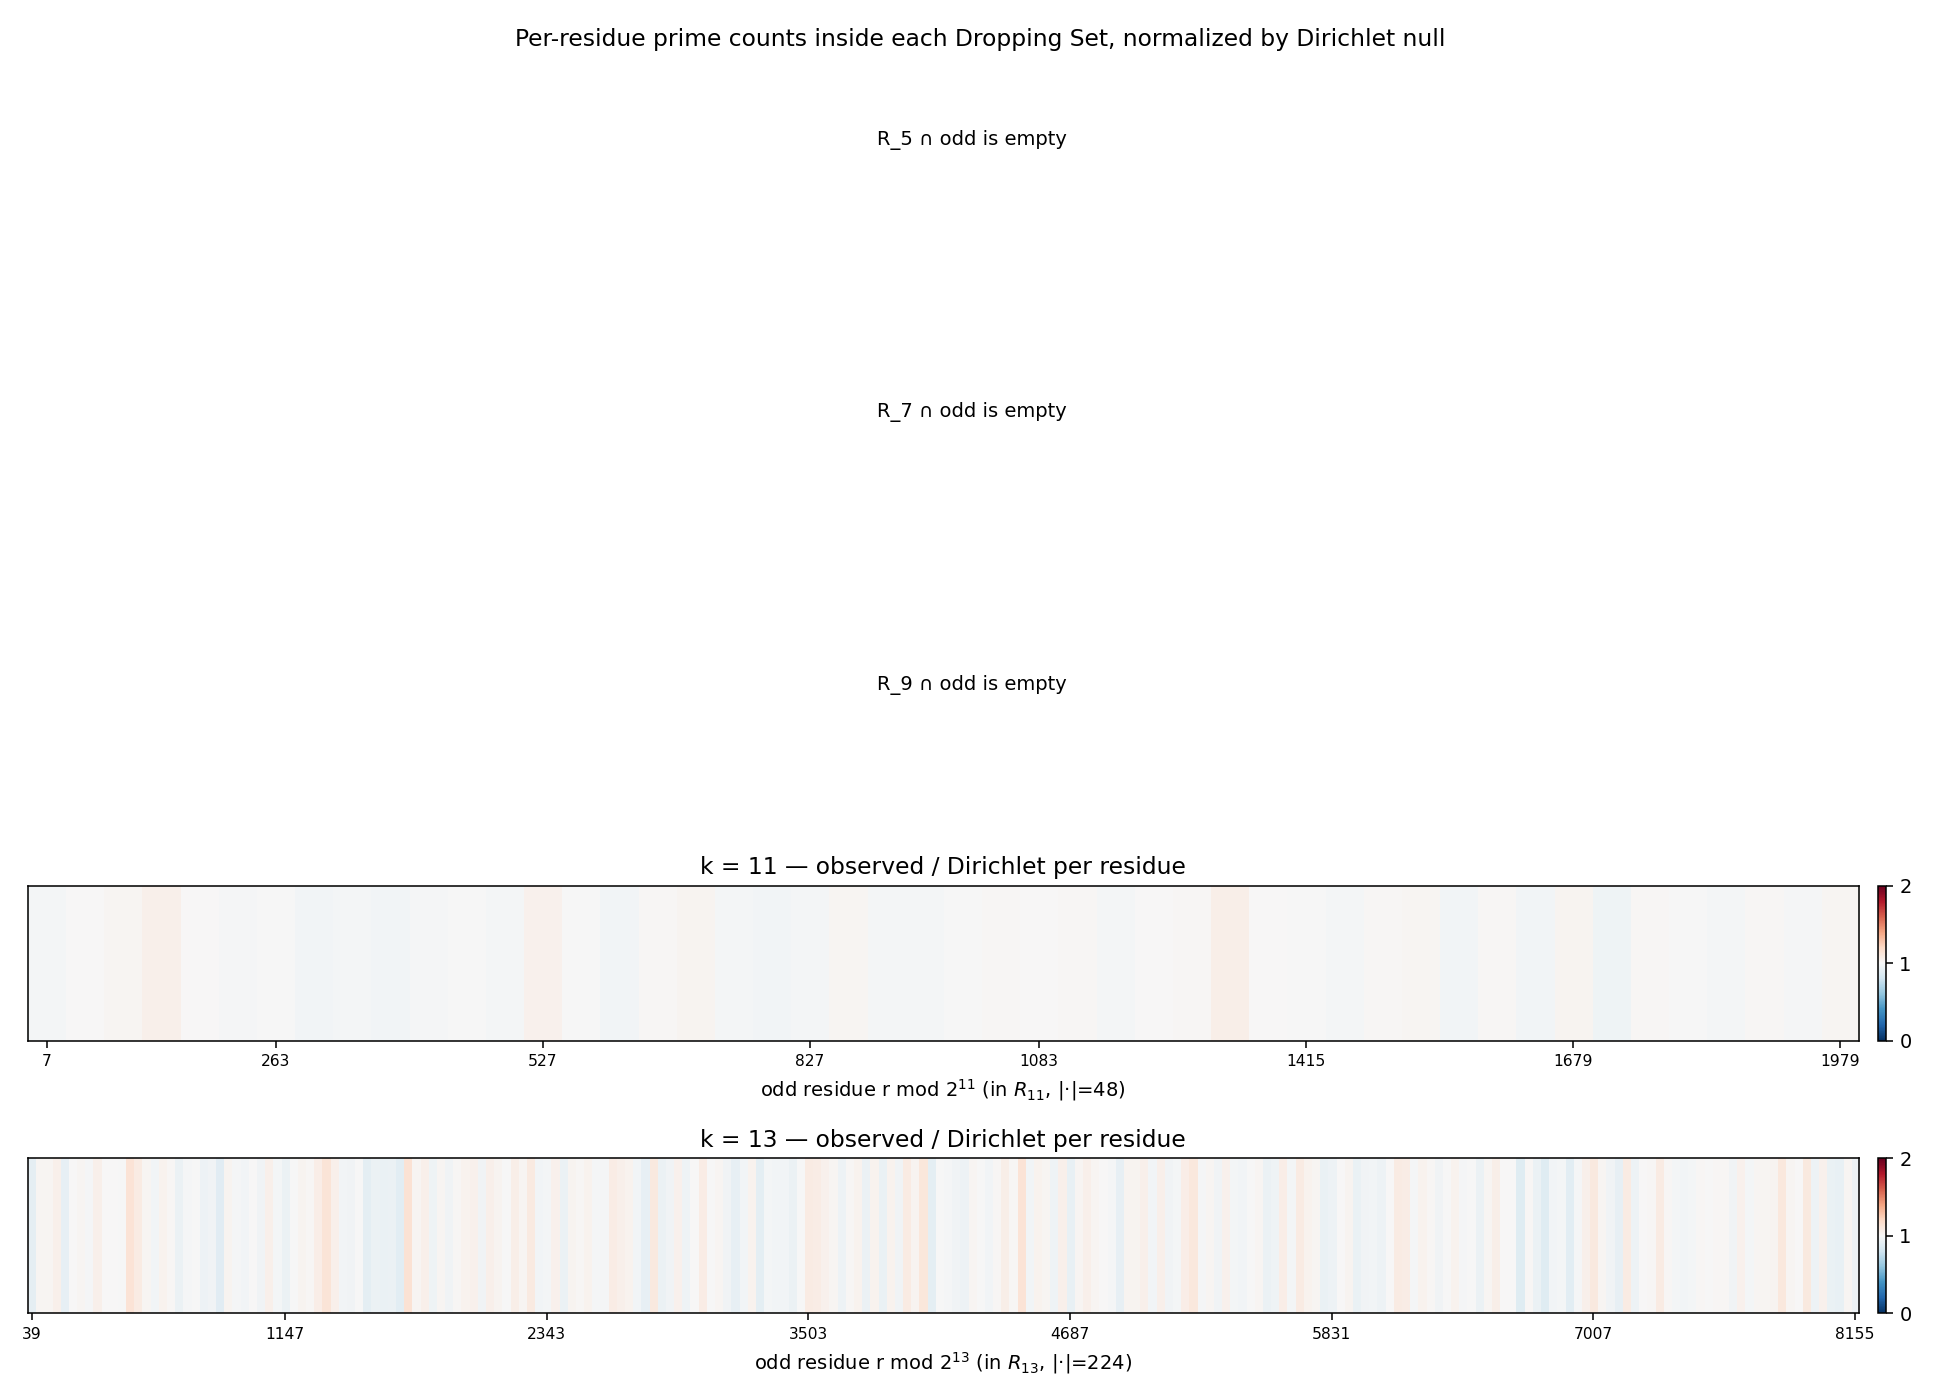
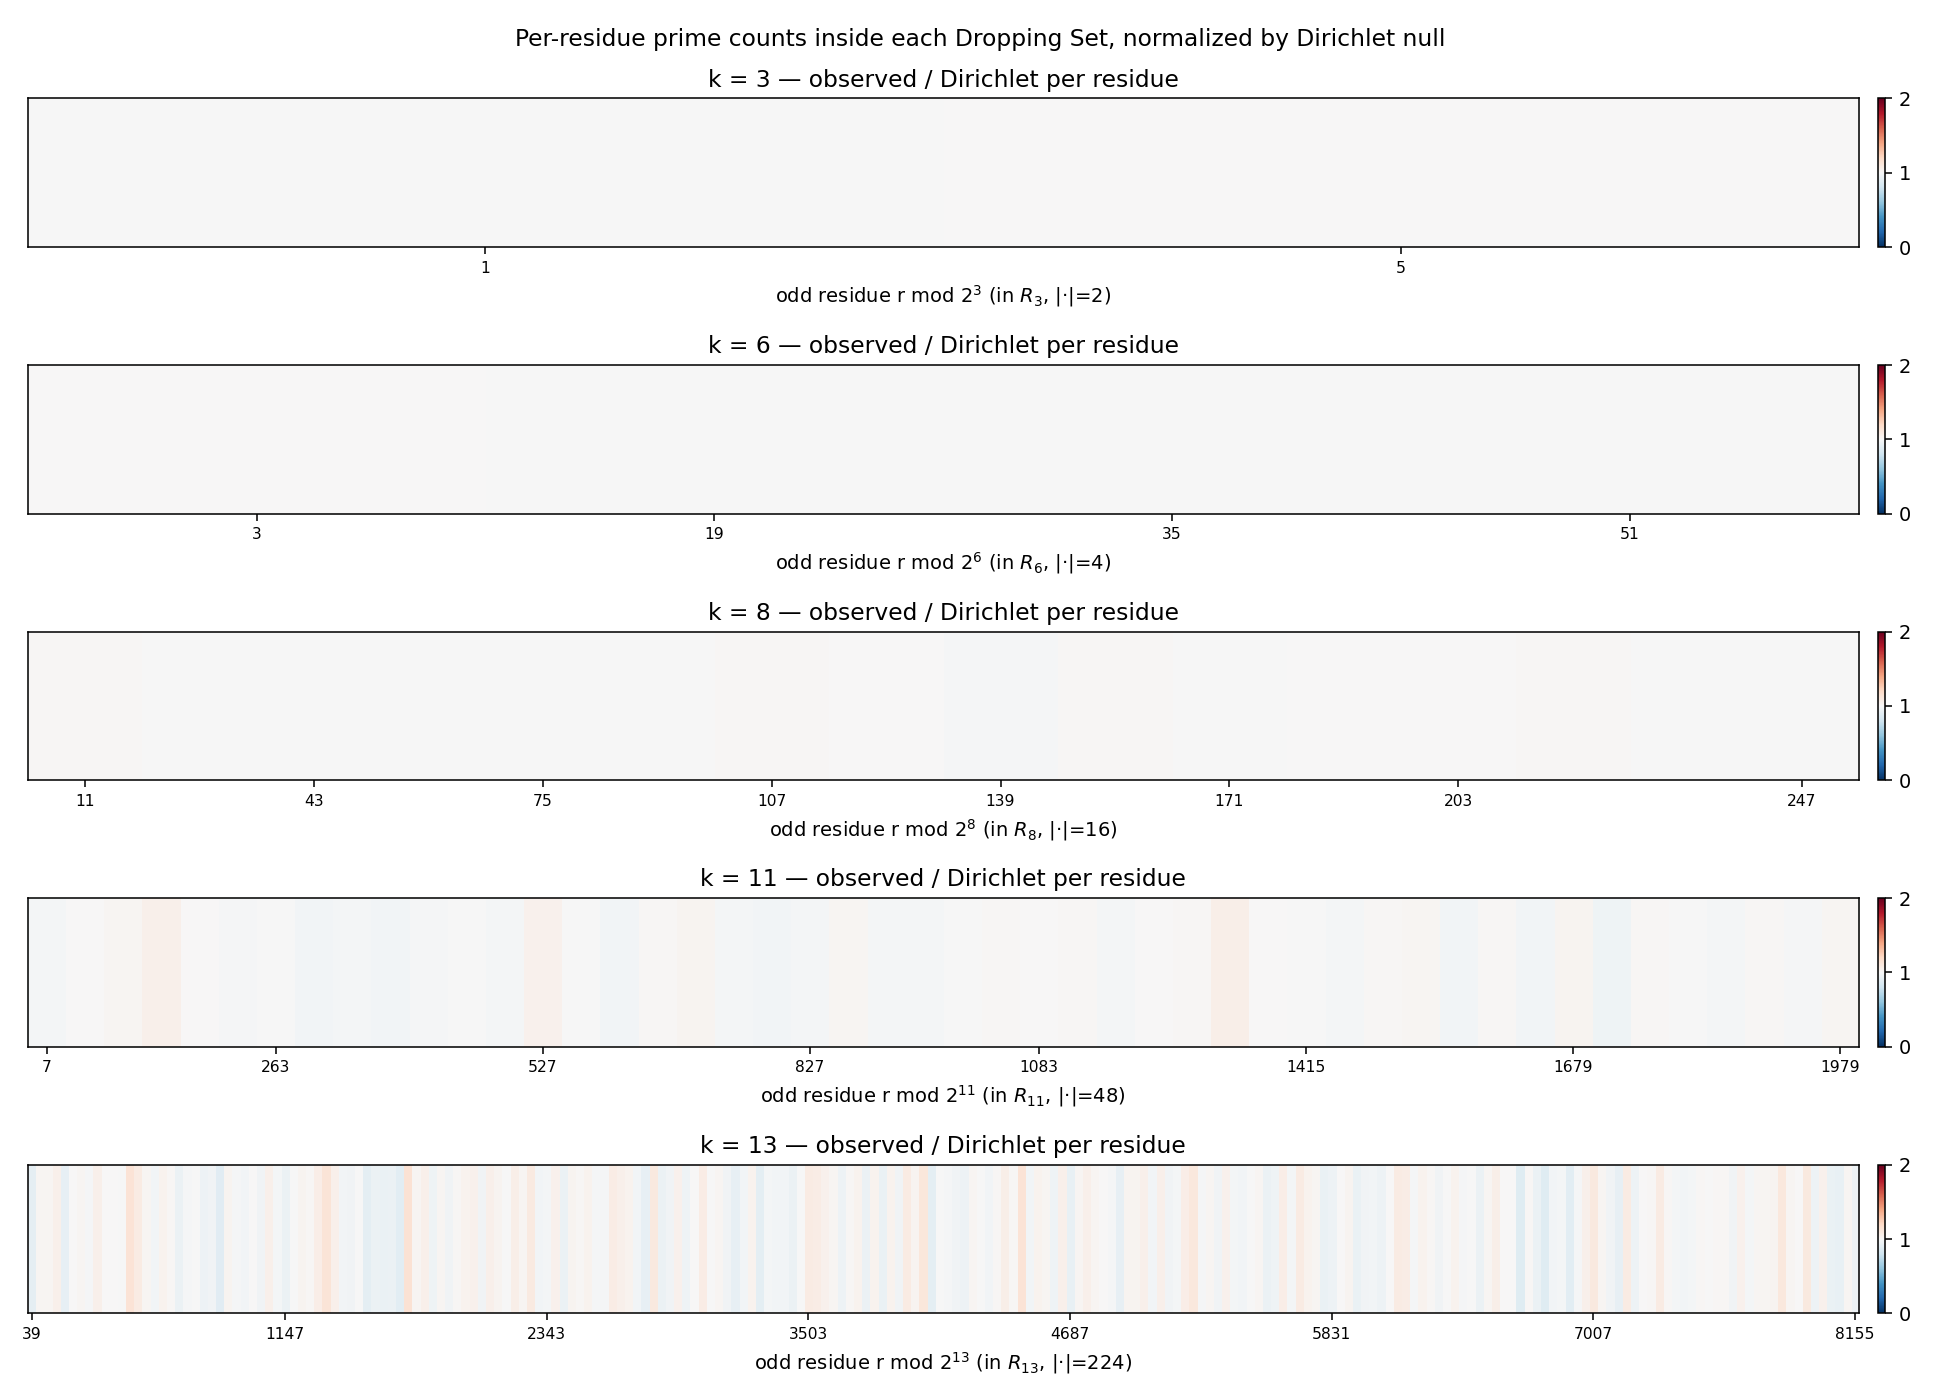
fix(scripts): pick populated dropping sets for heatmap; refresh PNGs at full N=1e7
HEATMAP_KS changed from (5, 7, 9, 11, 13) to (3, 6, 8, 11, 13) — the
actually-populated dropping sets within K_MAX=15.  Previous values 5, 7, 9
have |R_k ∩ odd| = 0 so rendered blank strips.  Heatmap PNG regenerated at
full N = 10_000_000 (π(N) = 664579); file grew from ~27 KB to ~100 KB.

diff --git a/scripts/prime_dropping_residues.py b/scripts/prime_dropping_residues.py
@@ -6,7 +6,7 @@ its residue p mod 2^k.  Compare counts to the Dirichlet null model
 
   1. Arithmetic-form table: which residues r mod 2^k populate D_k.
   2. Observed vs Dirichlet bar chart per D_k, with chi-squared annotation.
-  3. Per-residue heatmap inside D_k for k in {5, 7, 9, 11, 13}.
+  3. Per-residue heatmap inside D_k for k in {3, 6, 8, 11, 13}.
 
 Outputs:
     data/collatz_prime_dropping_residues_form.png
@@ -37,7 +37,7 @@ from collatz.residues import (
 
 N = 10_000_000  # prime ceiling
 K_MAX = 15  # maximum dropping set considered
-HEATMAP_KS = (5, 7, 9, 11, 13)  # k values that get a per-residue strip
+HEATMAP_KS = (3, 6, 8, 11, 13)  # populated dropping sets within K_MAX
 OUT_DIR = Path(__file__).resolve().parent.parent / "data"
 
 